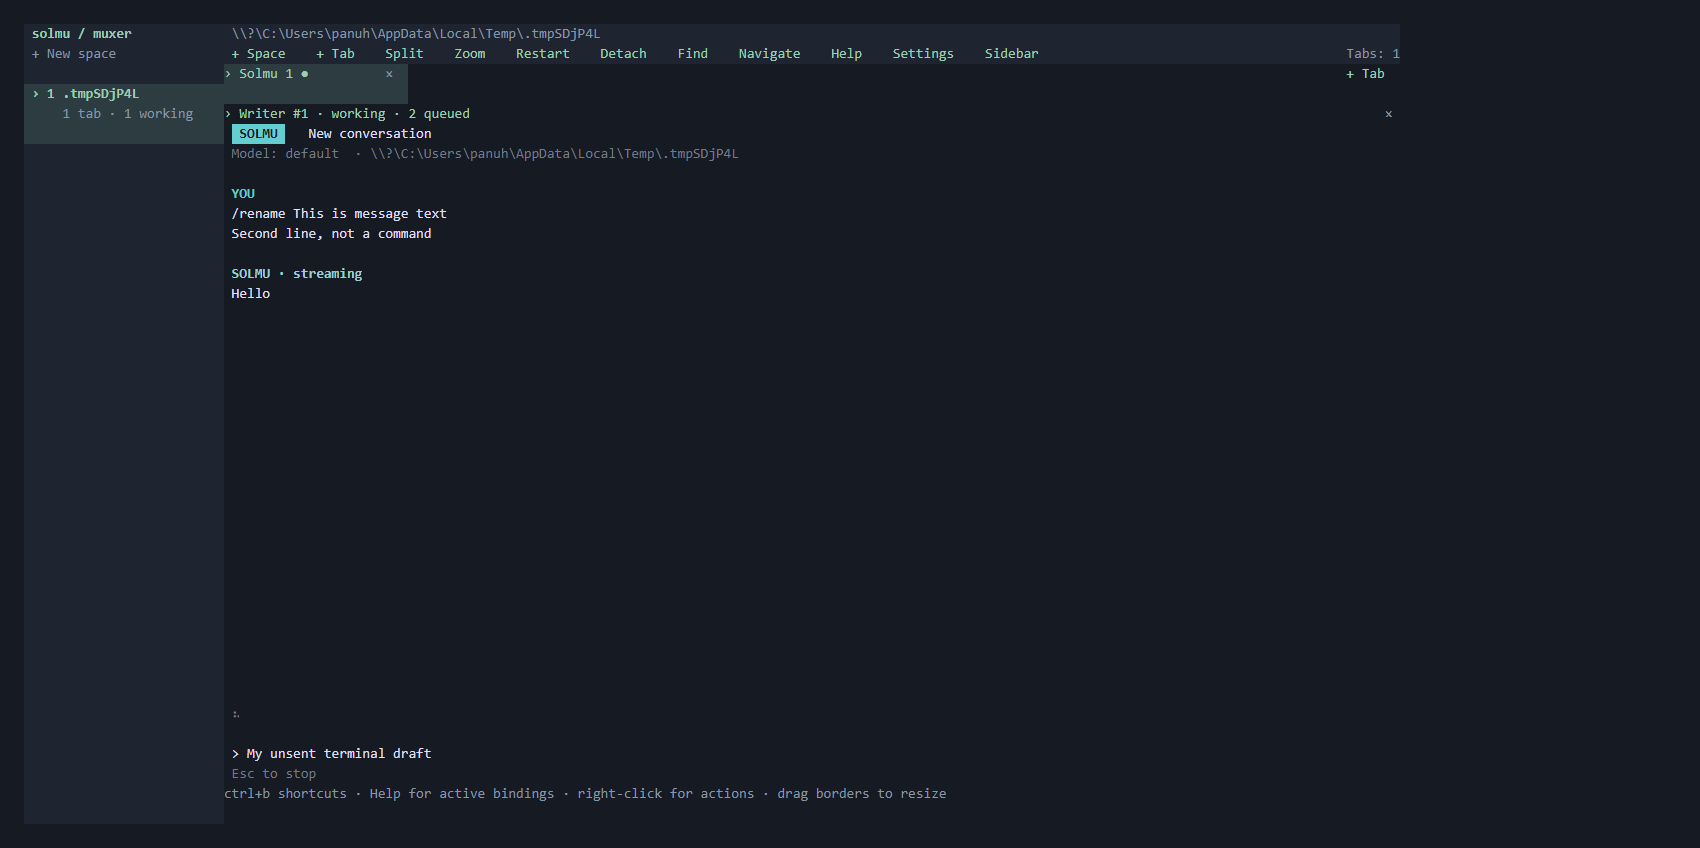
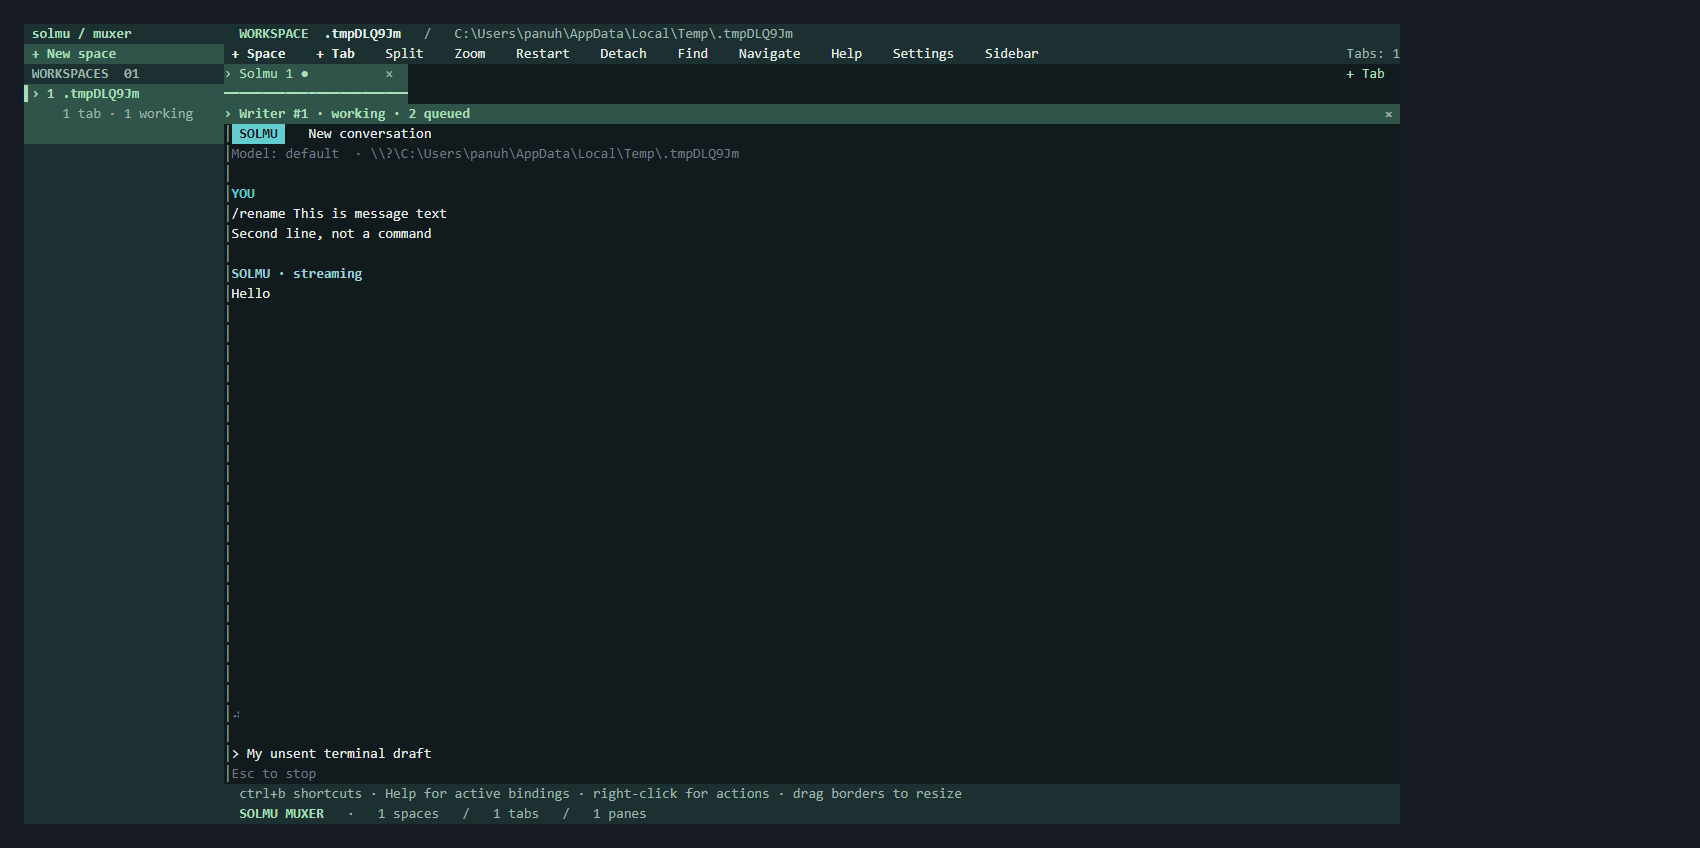
Refine Muxer workspace theme and focus hierarchy

diff --git a/muxer/src/app.rs b/muxer/src/app.rs
@@ -11,11 +11,14 @@ use ratatui::{
     Frame,
     layout::Rect,
     style::{Style, Stylize},
-    text::Line,
+    text::{Line, Span},
     widgets::{Block, Clear, Paragraph, Wrap},
 };
 use serde::{Deserialize, Serialize};
-use std::{error::Error, path::PathBuf};
+use std::{
+    error::Error,
+    path::{Path, PathBuf},
+};
 use unicode_segmentation::UnicodeSegmentation;
 use unicode_width::UnicodeWidthStr;
 
@@ -1590,12 +1593,25 @@ impl App {
         let sidebar = Rect::new(0, 0, self.sidebar_width(area), area.height);
         frame.render_widget(Block::new().bg(colors.panel), sidebar);
         frame.render_widget(
-            Paragraph::new(" solmu / muxer").fg(colors.accent).bold(),
+            Paragraph::new(" solmu / muxer")
+                .fg(colors.accent)
+                .bg(colors.panel)
+                .bold(),
             Rect::new(0, 0, sidebar.width, 1),
         );
         frame.render_widget(
-            Paragraph::new(" + New space").fg(colors.muted),
+            Paragraph::new(" + New space")
+                .fg(colors.accent)
+                .bg(colors.selected)
+                .bold(),
             Rect::new(0, 1, sidebar.width, 1),
+        );
+        frame.render_widget(
+            Paragraph::new(format!(" WORKSPACES  {:02}", self.spaces.len()))
+                .fg(colors.muted)
+                .bg(colors.panel)
+                .bold(),
+            Rect::new(0, 2, sidebar.width, 1),
         );
         let start = self.space_start(area);
         for (index, space) in self.spaces.iter().enumerate().skip(start) {
@@ -1632,6 +1648,7 @@ impl App {
             } else {
                 "ready".into()
             };
+            let card = Rect::new(0, y, sidebar.width, 3.min(area.height.saturating_sub(y)));
             frame.render_widget(
                 Paragraph::new(vec![
                     Line::styled(
@@ -1656,14 +1673,32 @@ impl App {
                 } else {
                     colors.panel
                 }),
-                Rect::new(0, y, sidebar.width, 3.min(area.height.saturating_sub(y))),
+                card,
             );
+            if selected {
+                frame.render_widget(
+                    Paragraph::new("▌").fg(colors.accent).bg(colors.selected),
+                    Rect::new(0, y, 1.min(card.width), card.height),
+                );
+            }
         }
         let content = self.content(area);
         frame.render_widget(
-            Paragraph::new(format!(" {}", self.spaces[self.space].directory.display()))
-                .fg(colors.muted)
-                .bg(colors.panel),
+            Paragraph::new(Line::from(vec![
+                Span::styled("  WORKSPACE  ", Style::new().fg(colors.accent).bold()),
+                Span::styled(
+                    space_title(&self.spaces[self.space]),
+                    Style::new().fg(colors.text).bold(),
+                ),
+                Span::styled(
+                    format!(
+                        "   /   {}",
+                        display_directory(&self.spaces[self.space].directory)
+                    ),
+                    Style::new().fg(colors.muted),
+                ),
+            ]))
+            .bg(colors.panel),
             Rect::new(content.x, 0, content.width, 1),
         );
         frame.render_widget(
@@ -1671,10 +1706,25 @@ impl App {
             Rect::new(content.x, 1, content.width, 1),
         );
         for (label, rect) in self.toolbar(area) {
+            let highlighted =
+                matches!(label, "+ Space" | "+ Tab") || (label == "Navigate" && self.navigation);
             frame.render_widget(
                 Paragraph::new(format!(" {label} "))
-                    .fg(colors.accent)
-                    .bg(colors.panel),
+                    .fg(if highlighted {
+                        colors.accent
+                    } else {
+                        colors.muted
+                    })
+                    .bg(if highlighted {
+                        colors.selected
+                    } else {
+                        colors.panel
+                    })
+                    .style(if highlighted {
+                        Style::new().bold()
+                    } else {
+                        Style::new()
+                    }),
                 rect,
             );
         }
@@ -1746,6 +1796,14 @@ impl App {
                 }),
                 rect,
             );
+            if selected && rect.height > 1 {
+                frame.render_widget(
+                    Paragraph::new("━".repeat(usize::from(rect.width)))
+                        .fg(colors.accent)
+                        .bg(colors.selected),
+                    Rect::new(rect.x, rect.y + 1, rect.width, 1),
+                );
+            }
             if rect.width >= 3 {
                 frame.render_widget(
                     Paragraph::new("×").fg(colors.muted),
@@ -1791,6 +1849,14 @@ impl App {
             }
             let pane = &self.panes[index];
             frame.render_widget(
+                Block::new().bg(if index == self.active {
+                    colors.selected
+                } else {
+                    colors.panel
+                }),
+                Rect::new(rect.x, rect.y, rect.width, 1),
+            );
+            frame.render_widget(
                 Paragraph::new(format!(
                     "{}{} · {}{}",
                     if index == self.active { "› " } else { "  " },
@@ -1802,7 +1868,8 @@ impl App {
                     colors.accent
                 } else {
                     colors.muted
-                }),
+                })
+                .bold(),
                 Rect::new(rect.x, rect.y, rect.width, 1),
             );
             if rect.width >= 3 {
@@ -1820,6 +1887,12 @@ impl App {
                 TerminalScreen(parser.screen(), colors.text, colors.background),
                 inner,
             );
+            if index == self.active && rect.height > 1 {
+                frame.render_widget(
+                    Paragraph::new("│\n".repeat(usize::from(rect.height - 1))).fg(colors.muted),
+                    Rect::new(rect.x, rect.y + 1, 1, rect.height - 1),
+                );
+            }
             if index == self.active
                 && self.workspace.is_none()
                 && self.command.is_none()
@@ -1855,12 +1928,46 @@ impl App {
                 self.config.current.keys.prefix_text
             )
         };
+        let footer = Rect::new(content.x, area.bottom().saturating_sub(2), content.width, 2);
+        frame.render_widget(Block::new().bg(colors.panel), footer);
+        let expanded_footer = self.prefix
+            || self.navigation
+            || self.resizing
+            || !self.notice.is_empty()
+            || self.config.error.is_some()
+            || footer.width < 85;
         frame.render_widget(
-            Paragraph::new(text)
-                .fg(colors.muted)
+            Paragraph::new(format!("  {text}"))
+                .fg(if self.prefix || self.navigation || self.resizing {
+                    colors.accent
+                } else {
+                    colors.muted
+                })
                 .wrap(Wrap { trim: false }),
-            Rect::new(content.x, area.bottom().saturating_sub(2), content.width, 2),
+            Rect::new(
+                footer.x,
+                footer.y,
+                footer.width,
+                if expanded_footer { 2 } else { 1 },
+            ),
         );
+        if !expanded_footer {
+            frame.render_widget(
+                Paragraph::new(Line::from(vec![
+                    Span::styled("  SOLMU MUXER", Style::new().fg(colors.accent).bold()),
+                    Span::styled(
+                        format!(
+                            "   ·   {} spaces   /   {} tabs   /   {} panes",
+                            self.spaces.len(),
+                            self.spaces[self.space].tabs.len(),
+                            self.tab().layout.ids().len()
+                        ),
+                        Style::new().fg(colors.muted),
+                    ),
+                ])),
+                Rect::new(footer.x, footer.y + 1, footer.width, 1),
+            );
+        }
         if let Some(path) = &self.workspace {
             self.draw_editor(
                 frame,
@@ -2135,6 +2242,19 @@ fn space_title(space: &Space) -> String {
             .to_string_lossy()
             .into_owned()
     })
+}
+fn display_directory(path: &Path) -> String {
+    let value = path.to_string_lossy();
+    #[cfg(windows)]
+    {
+        if let Some(rest) = value.strip_prefix("\\\\?\\UNC\\") {
+            return format!("\\\\{rest}");
+        }
+        if let Some(rest) = value.strip_prefix("\\\\?\\") {
+            return rest.to_owned();
+        }
+    }
+    value.into_owned()
 }
 fn pane_title(pane: &Pane) -> String {
     pane.name.as_ref().map_or_else(

diff --git a/e2e/muxer/configuration.rs b/e2e/muxer/configuration.rs
@@ -122,11 +122,11 @@ sidebar_width = 34
     tui.wait_absent("Configuration error:").await;
     tui.wait("solmu / muxer").await;
     palette(&tui, 0, 2, true, vt100::Color::Rgb(36, 104, 19)).await;
-    palette(&tui, 0, 30, false, vt100::Color::Rgb(30, 37, 48)).await;
+    palette(&tui, 0, 30, false, vt100::Color::Rgb(29, 48, 49)).await;
     tui.wait("Draft stays").await;
     std::fs::remove_file(&path).unwrap();
     tui.wait("ctrl+b shortcuts").await;
-    palette(&tui, 0, 2, true, vt100::Color::Rgb(156, 207, 176)).await;
+    palette(&tui, 0, 2, true, vt100::Color::Rgb(169, 223, 185)).await;
     for thread in backend.threads().await["items"].as_array().unwrap() {
         assert!(
             backend.messages(thread["id"].as_str().unwrap()).await["items"]
@@ -190,7 +190,7 @@ async fn settings_preserve_comments_merge_unrelated_edits_and_protect_conflictin
     palette(&first, 0, 2, true, vt100::Color::Rgb(170, 187, 204)).await;
     edit(&second, "theme.colors.accent").await;
     save(&second, "").await;
-    palette(&first, 0, 2, true, vt100::Color::Rgb(156, 207, 176)).await;
+    palette(&first, 0, 2, true, vt100::Color::Rgb(169, 223, 185)).await;
     assert!(!std::fs::read_to_string(&path).unwrap().contains("#aabbcc"));
     close_settings(&first).await;
     close_settings(&second).await;

diff --git a/e2e/muxer/appearance.rs b/e2e/muxer/appearance.rs
@@ -1,0 +1,34 @@
+use super::*;
+
+#[tokio::test(flavor = "multi_thread", worker_threads = 2)]
+async fn workspace_chrome_marks_selected_space_tab_and_pane_without_changing_mouse_controls() {
+    let backend = Backend::start().await;
+    let mut tui = Terminal::start(&backend, &[]);
+    tui.wait("Ready").await;
+    tui.wait("WORKSPACES  01").await;
+    tui.wait("SOLMU MUXER").await;
+    {
+        let capture = tui.screen.lock().unwrap();
+        let screen = capture.screen();
+        assert_eq!(
+            screen.cell(3, 26).unwrap().contents(),
+            "━",
+            "selected tab should have an accent underline"
+        );
+        assert_eq!(
+            screen.cell(3, 26).unwrap().fgcolor(),
+            vt100::Color::Rgb(169, 223, 185)
+        );
+        assert_eq!(
+            screen.cell(4, 26).unwrap().bgcolor(),
+            vt100::Color::Rgb(48, 84, 73),
+            "focused pane header should stand apart from terminal content"
+        );
+        #[cfg(windows)]
+        assert!(!screen.rows(0, 1).next().unwrap().contains("\\\\?\\"));
+    }
+    tui.click("+ Tab").await;
+    tui.wait("Tabs: 2").await;
+    tui.wait("Solmu 2 · idle").await;
+    tui.exit().await;
+}

diff --git a/muxer/src/config.rs b/muxer/src/config.rs
@@ -342,12 +342,12 @@ impl Config {
                 accent: Color::Green,
             },
             _ => Palette {
-                background: Color::Rgb(21, 26, 35),
-                panel: Color::Rgb(30, 37, 48),
-                selected: Color::Rgb(45, 60, 65),
-                text: Color::Rgb(224, 222, 244),
-                muted: Color::Rgb(136, 149, 166),
-                accent: Color::Rgb(156, 207, 176),
+                background: Color::Rgb(17, 27, 29),
+                panel: Color::Rgb(29, 48, 49),
+                selected: Color::Rgb(48, 84, 73),
+                text: Color::Rgb(231, 238, 232),
+                muted: Color::Rgb(159, 180, 170),
+                accent: Color::Rgb(169, 223, 185),
             },
         };
         for (name, text) in &self.colors {

diff --git a/e2e/muxer/mod.rs b/e2e/muxer/mod.rs
@@ -308,6 +308,7 @@ mod panes;
 mod workspaces;
 
 mod agents;
+mod appearance;
 mod audit;
 mod configuration;
 mod control;

diff --git a/docs/muxer.md b/docs/muxer.md
@@ -10,6 +10,11 @@ in a nested layout. Every pane starts its own conversation and keeps running
 while you switch tabs or spaces. The sidebar shows spaces and their tab counts;
 tabs show activity, and each terminal shows its status.
 
+The workspace rail highlights the selected project, the tab strip marks the
+active tab, and the focused pane has a distinct header. The bottom bar shows
+shortcuts and the current space, tab, and pane counts. These colors follow the
+selected Muxer theme, including a custom palette.
+
 With the backend already running, launch the installed Muxer from your project
 folder. See [installation](../muxer/README.md#install):
 

diff --git a/docs/muxer-configuration.md b/docs/muxer-configuration.md
@@ -108,7 +108,8 @@ sidebar_visible = true
 sidebar_width = 30
 ```
 
-Themes are `solmu` (dark), `light`, and `terminal` (your terminal's ANSI palette).
+Themes are `solmu` (a deep green dark palette), `light`, and `terminal`
+(your terminal's ANSI palette).
 Override `background`, `panel`, `selected`, `text`, `muted`, or `accent`.
 Colors accept `#RRGGBB`, named ANSI colors (`black`, `white`, `red`, `green`,
 `blue`, `yellow`, `cyan`, `magenta`, `gray`, `darkgray`), or `reset`, `default`,

diff --git a/muxer/README.md b/muxer/README.md
@@ -8,6 +8,8 @@ Use `/skills` in a Solmu pane to see automatically discovered
 A Rust TUI with project spaces and multiple Solmu tabs in each space.
 Each tab holds a layout of real terminal panes. Each pane starts its own Solmu
 conversation and keeps running while you switch tabs or spaces.
+The selected workspace, tab, and pane are highlighted, and the bottom bar
+shows shortcuts and layout counts.
 
 ## Install
 
